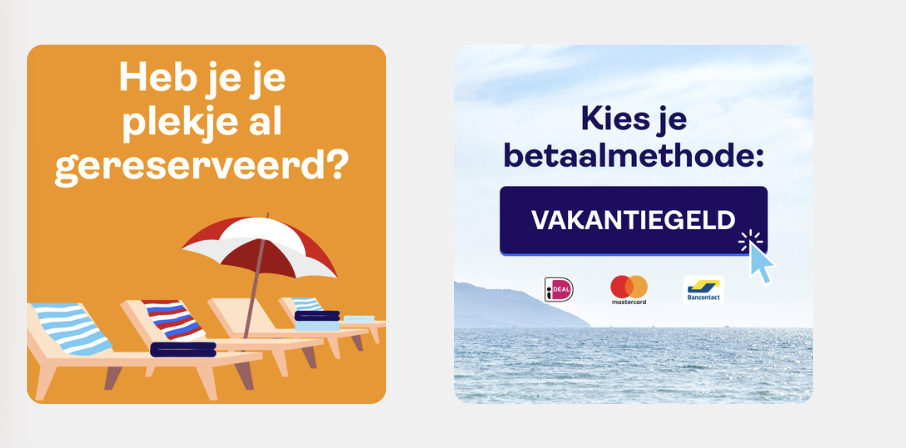
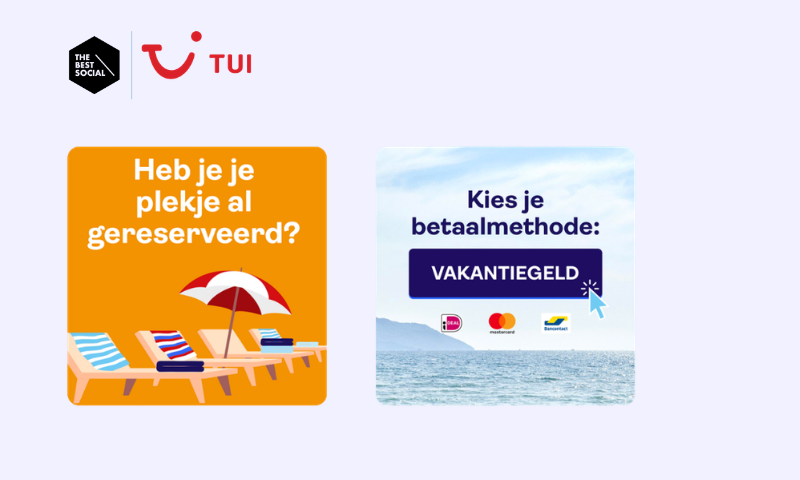
Add files via upload
- Script added to automatically refresh when new BOPS event has been added in The Other Side agenda + ticket link if available
- Campaign assets are improved
- Playlist buttons are slightly smaller.

diff --git a/index.html b/index.html
@@ -360,16 +360,18 @@
 
     .instagram-media { width: 100% !important; min-width: 0 !important; margin: 0 !important; }
 
-    .music-grid { display: grid; grid-template-columns: repeat(2, 1fr); gap: 14px; }
-    .music-card { display: flex; flex-direction: column; justify-content: space-between; min-height: 150px; padding: 20px; border: 1px solid rgba(255,255,255,.12); border-radius: 18px; text-decoration: none; }
+    .music-section { padding: 28px 34px; }
+    .music-section .section-heading { margin-bottom: 18px; }
+    .music-grid { display: grid; grid-template-columns: repeat(4, minmax(0, 1fr)); gap: 10px; }
+    .music-card { display: flex; flex-direction: column; justify-content: space-between; aspect-ratio: 2 / 1; padding: 17px; border: 1px solid rgba(255,255,255,.12); border-radius: 16px; text-decoration: none; }
     .music-card.spotify { background: linear-gradient(135deg, #252861, #3c3975); }
     .music-card.soundcloud { background: linear-gradient(135deg, #352948, #503346); }
     .music-card.bops-spotify { background: linear-gradient(135deg, #342750, #513255); }
     .music-card.apple-music { background: linear-gradient(135deg, #3c293f, #57303c); }
-    .music-label { display: inline-flex; align-items: center; gap: 8px; font-size: .73rem; font-weight: 800; letter-spacing: .1em; text-transform: uppercase; opacity: .82; }
-    .music-label svg { width: 19px; height: 19px; flex: 0 0 auto; }
-    .music-card h3 { max-width: 400px; font-size: clamp(1.1rem, 2.4vw, 1.55rem); }
-    .music-card > .css-arrow { width: 17px; height: 17px; }
+    .music-label { display: inline-flex; align-items: center; gap: 7px; font-size: .68rem; font-weight: 800; letter-spacing: .09em; text-transform: uppercase; opacity: .82; }
+    .music-label svg { width: 17px; height: 17px; flex: 0 0 auto; }
+    .music-card h3 { max-width: 400px; font-size: clamp(1rem, 2vw, 1.3rem); }
+    .music-card > .css-arrow { width: 14px; height: 14px; }
 
     .contact { display: grid; grid-template-columns: 1fr auto; align-items: center; gap: 24px; padding: 38px; }
     .contact p { margin-top: 8px; color: rgba(255,255,255,.75); }
@@ -383,6 +385,11 @@
       to { transform: translate(28px,22px) scale(1.1); }
     }
 
+    @media (max-width: 980px) {
+      .music-grid { grid-template-columns: repeat(2, minmax(0, 1fr)); }
+      .music-card { aspect-ratio: 2 / 1; }
+    }
+
     @media (max-width: 760px) {
       .page { width: calc(100% - 20px); }
       .hero { grid-template-columns: 1fr; padding: 30px 24px; text-align: center; }
@@ -393,7 +400,9 @@
       .section-card { padding: 28px 20px; }
       .section-heading { display: block; }
       .section-copy { margin-top: 8px; }
-      .services, .music-grid { grid-template-columns: 1fr; }
+      .services { grid-template-columns: 1fr; }
+      .music-section { padding: 24px 20px; }
+      .music-card { aspect-ratio: 2 / 1; }
       .project { flex-basis: min(340px, 84vw); }
       .dj-feature { grid-template-columns: 1fr; padding: 30px 24px; }
       .reel { flex-basis: min(320px, 84vw); }
@@ -405,6 +414,11 @@
       .bops-event .button { width: 100%; }
       .contact { grid-template-columns: 1fr; padding: 30px 24px; text-align: center; }
       footer { flex-direction: column; align-items: center; }
+    }
+
+    @media (max-width: 430px) {
+      .music-grid { grid-template-columns: 1fr; }
+      .music-card { aspect-ratio: 2 / 1; }
     }
 
     @media (prefers-reduced-motion: reduce) {
@@ -515,7 +529,7 @@
           </div>
         </article>
         <article class="project">
-          <div class="project-image"><img src="assets/netflix-nikkietutorials.jpg" alt="Netflix and NikkieTutorials collaboration" loading="lazy"></div>
+          <div class="project-image"><img src="assets/netflix-nikkietutorials.png" alt="Netflix and NikkieTutorials collaboration" loading="lazy"></div>
           <div class="project-content">
             <span class="project-type">Concept</span>
             <span class="project-client">In collaboration with The Best Social</span>
@@ -591,10 +605,10 @@
         <p class="bops-description">I am the co-founder of BOPS, a queer pop party with house &amp; disco twists in Amsterdam.</p>
         <div class="bops-event">
           <div>
-            <span class="bops-event-label">Next event · 31 July</span>
-            <strong>BOPS 21: WorldPride</strong>
+            <span class="bops-event-label" id="bops-event-date">Next event · 31 July</span>
+            <strong id="bops-event-title">BOPS x KIKI</strong>
           </div>
-          <a class="button primary" href="https://shop.weeztix.com/8e451077-cf74-11eb-9194-9e36bf7d673e/tickets?shop_code=drtdesgz" target="_blank" rel="noopener noreferrer">Get tickets <span class="css-arrow up-right" aria-hidden="true"></span></a>
+          <a class="button primary" id="bops-event-link" href="https://shop.weeztix.com/8e451077-cf74-11eb-9194-9e36bf7d673e/tickets?shop_code=3ktx3623" target="_blank" rel="noopener noreferrer">Get tickets <span class="css-arrow up-right" aria-hidden="true"></span></a>
         </div>
         <div class="actions">
           <a class="button primary" href="https://www.instagram.com/bops.ams/?hl=en" target="_blank" rel="noopener noreferrer">Follow BOPS on Instagram <span class="css-arrow up-right" aria-hidden="true"></span></a>
@@ -618,7 +632,7 @@
       </div>
     </section>
 
-    <section class="section-card panel" id="dj" aria-labelledby="music-title">
+    <section class="section-card panel music-section" id="dj" aria-labelledby="music-title">
       <div class="section-heading">
         <div>
           <p class="eyebrow">Now playing</p>
@@ -628,10 +642,11 @@
       <div class="music-grid">
         <a class="music-card spotify" href="https://open.spotify.com/playlist/1j46RaT90S2dzhC1sbWXQu" target="_blank" rel="noopener noreferrer">
           <span class="music-label">
-            <svg viewBox="0 0 24 24" fill="none" stroke="currentColor" stroke-width="1.7" stroke-linecap="round" stroke-linejoin="round" aria-hidden="true">
-              <path d="M4 14v-2a8 8 0 0 1 16 0v2"></path>
-              <path d="M4 14a2 2 0 0 1 2-2h1v7H6a2 2 0 0 1-2-2Z"></path>
-              <path d="M20 14a2 2 0 0 0-2-2h-1v7h1a2 2 0 0 0 2-2Z"></path>
+            <svg class="spotify-icon" viewBox="0 0 24 24" fill="none" stroke="currentColor" stroke-width="1.8" stroke-linecap="round" aria-hidden="true">
+              <circle cx="12" cy="12" r="9"></circle>
+              <path d="M7.4 9.2c3.3-1 7.2-.7 9.8.8"></path>
+              <path d="M8.1 12.1c2.7-.8 6.1-.5 8.4.8"></path>
+              <path d="M8.8 14.9c2.2-.6 4.8-.4 6.7.7"></path>
             </svg>
             Spotify playlist
           </span>
@@ -651,10 +666,11 @@
         </a>
         <a class="music-card bops-spotify" href="https://open.spotify.com/playlist/4oriGmT5x8BeqVLwpiesro?si=wkwScWZXTQajowGhEYNidw&amp;utm_medium=share&amp;utm_source=linktree" target="_blank" rel="noopener noreferrer">
           <span class="music-label">
-            <svg viewBox="0 0 24 24" fill="none" stroke="currentColor" stroke-width="1.7" stroke-linecap="round" stroke-linejoin="round" aria-hidden="true">
-              <path d="M4 14v-2a8 8 0 0 1 16 0v2"></path>
-              <path d="M4 14a2 2 0 0 1 2-2h1v7H6a2 2 0 0 1-2-2Z"></path>
-              <path d="M20 14a2 2 0 0 0-2-2h-1v7h1a2 2 0 0 0 2-2Z"></path>
+            <svg class="spotify-icon" viewBox="0 0 24 24" fill="none" stroke="currentColor" stroke-width="1.8" stroke-linecap="round" aria-hidden="true">
+              <circle cx="12" cy="12" r="9"></circle>
+              <path d="M7.4 9.2c3.3-1 7.2-.7 9.8.8"></path>
+              <path d="M8.1 12.1c2.7-.8 6.1-.5 8.4.8"></path>
+              <path d="M8.8 14.9c2.2-.6 4.8-.4 6.7.7"></path>
             </svg>
             BOPS on Spotify
           </span>
@@ -687,6 +703,32 @@
     </footer>
   </main>
 
+  <script>
+    fetch('assets/bops-event.json', { cache: 'no-store' })
+      .then(response => response.ok ? response.json() : Promise.reject())
+      .then(event => {
+        const date = document.getElementById('bops-event-date');
+        const title = document.getElementById('bops-event-title');
+        const link = document.getElementById('bops-event-link');
+
+        if (!event.date || !event.title) {
+          date.textContent = 'Next event';
+          title.textContent = 'New date coming soon';
+          link.hidden = true;
+          return;
+        }
+
+        date.textContent = `Next event · ${event.displayDate}`;
+        title.textContent = event.title;
+        if (event.ticketUrl) {
+          link.href = event.ticketUrl;
+          link.hidden = false;
+        } else {
+          link.hidden = true;
+        }
+      })
+      .catch(() => {});
+  </script>
   <script async src="https://www.instagram.com/embed.js"></script>
 </body>
 </html>

diff --git a/scripts/update_bops_event.py b/scripts/update_bops_event.py
@@ -1,0 +1,82 @@
+#!/usr/bin/env python3
+"""Update the next BOPS event from The Other Side's public agenda."""
+
+from datetime import date
+from html import unescape
+from pathlib import Path
+import json
+import re
+import urllib.request
+
+SOURCE = "https://the-other-side.nl/"
+OUTPUT = Path(__file__).resolve().parents[1] / "assets" / "bops-event.json"
+MONTHS = {
+    "JAN": 1, "FEB": 2, "MAR": 3, "APR": 4, "MAY": 5, "MEI": 5,
+    "JUN": 6, "JUL": 7, "AUG": 8, "SEP": 9, "SEPT": 9,
+    "OCT": 10, "OKT": 10, "NOV": 11, "DEC": 12,
+}
+
+
+def text(fragment):
+    fragment = re.sub(r"<script\b.*?</script>|<style\b.*?</style>", " ", fragment,
+                      flags=re.I | re.S)
+    return " ".join(unescape(re.sub(r"<[^>]+>", " ", fragment)).split())
+
+
+request = urllib.request.Request(SOURCE, headers={"User-Agent": "EvertGrootWebsite/1.0"})
+with urllib.request.urlopen(request, timeout=30) as response:
+    page = response.read().decode("utf-8", errors="replace")
+
+today = date.today()
+events = []
+for section in re.findall(r"<section\b.*?</section>", page, flags=re.I | re.S):
+    headings = [text(item) for item in re.findall(r"<h[12]\b.*?</h[12]>", section,
+                                                   flags=re.I | re.S)]
+    titles = [item for item in headings if re.search(r"\bBOPS\b", item, flags=re.I)]
+    if not titles:
+        continue
+
+    day = next((int(item) for item in headings if re.fullmatch(r"\d{1,2}", item)), None)
+    month_name = next((item.upper() for item in headings if item.upper() in MONTHS), None)
+    if not day or not month_name:
+        continue
+
+    try:
+        event_date = date(today.year, MONTHS[month_name], day)
+    except ValueError:
+        continue
+    if event_date < today:
+        continue
+
+    hrefs = [unescape(url) for url in re.findall(r"href=[\"']([^\"']+)[\"']", section,
+                                                 flags=re.I)]
+    ticket_url = next((url for url in hrefs if url.startswith("http")), None)
+    title = re.sub(r"\s+", " ", titles[0]).strip()
+    events.append((event_date, title, ticket_url))
+
+# The page contains separate desktop/mobile copies, so deduplicate by date and title.
+unique = {(event_date, title): ticket for event_date, title, ticket in events}
+ordered = sorted((event_date, title, ticket) for (event_date, title), ticket in unique.items())
+
+if ordered:
+    event_date, title, ticket_url = ordered[0]
+    payload = {
+        "date": event_date.isoformat(),
+        "displayDate": f"{event_date.day} {event_date.strftime('%B')}",
+        "title": title,
+        "ticketUrl": ticket_url,
+        "source": SOURCE,
+        "checkedAt": today.isoformat(),
+    }
+else:
+    payload = {
+        "date": None,
+        "displayDate": None,
+        "title": None,
+        "ticketUrl": None,
+        "source": SOURCE,
+        "checkedAt": today.isoformat(),
+    }
+
+OUTPUT.write_text(json.dumps(payload, indent=2, ensure_ascii=False) + "\n", encoding="utf-8")
+print(f"Updated {OUTPUT}: {payload['title'] or 'no upcoming BOPS event'}")